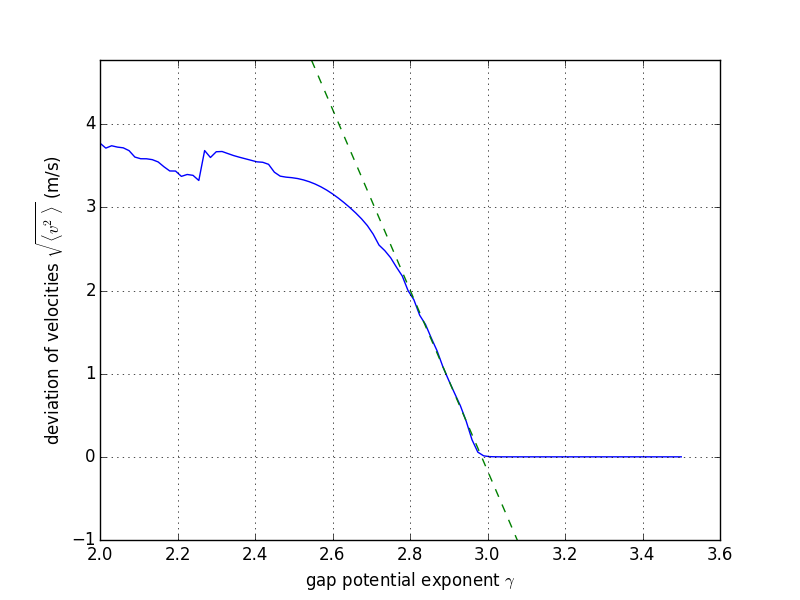
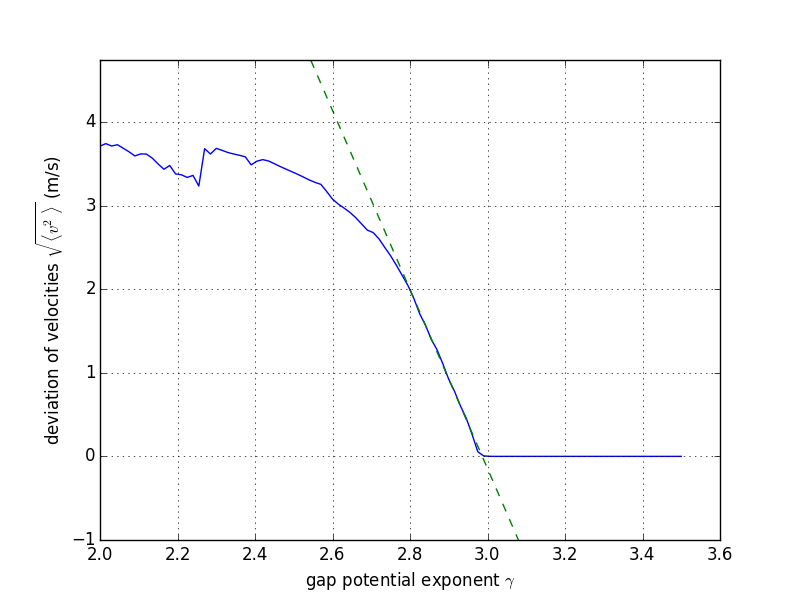
Added tool to visualize velocity field in frequency space

diff --git a/code/measurements/fourier_space.py b/code/measurements/fourier_space.py
@@ -1,0 +1,78 @@
+from subprocess import check_call
+import numpy as np
+from scipy.interpolate import griddata
+from scipy.fftpack import fft2
+from numpy.fft import fftshift, fftfreq
+from matplotlib import pyplot as plt
+
+from paths import SETTINGS_PATH, OUTPUT_PATH, SIM_PATH, SIM_WD
+from common import parse_output
+
+SETTINGS_TEMPLATE = """
+N_CARS    = 50
+ROAD_LENGTH = 1000
+VMAX      = 15
+MIN_DIST  = 2
+TIME_HEAD = 1.5
+AMAX      = 0.6
+DMAX      = 2
+CAR_SIZE  = 5
+DT        = 0.125
+END_TIME  = 4000
+GAMMA = 2.05
+
+
+# Output format
+POSITIONS = 1
+VELOCITIES = 1
+OUT_FREQ = 4
+THROUGHPUT = 1
+"""
+
+#Make the expressions above available in this script
+exec SETTINGS_TEMPLATE
+
+SETTINGS_TEMPLATE += "ID = fourier_space\n"
+
+
+def run_sim():
+    settings_file = open(SETTINGS_PATH + "/fourier_space.txt", "w")
+    settings_file.write(SETTINGS_TEMPLATE)
+    settings_file.close()
+    
+    check_call([SIM_PATH, SETTINGS_PATH+"/fourier_space.txt"], cwd = SIM_WD)
+    
+    # read output
+    n, tt, xx, vv, throughput = parse_output(OUTPUT_PATH + "/cars_fourier_space.dat")
+    
+    # create grid
+    tt_2d = np.tile(tt, (n,1)).T
+    grid_t, grid_x = np.mgrid[500.:END_TIME:1024j, 0.:ROAD_LENGTH:1024j]
+    grid_v = np.nan_to_num(griddata((tt_2d.flatten(), xx.flatten()), vv.flatten(), (grid_t, grid_x), rescale = True))
+    sample_spacing_t = grid_t[2,0]-grid_t[1,0]
+    sample_spacing_x = grid_x[0,2]-grid_x[0,1]
+    
+    grid_fft = np.log(np.abs(fftshift(fft2(grid_v))))
+    freq_t = fftshift(fftfreq(grid_fft.shape[0], sample_spacing_t))
+    freq_x = fftshift(fftfreq(grid_fft.shape[1], sample_spacing_x))
+    print "computation of Fourier transform complete"
+    
+    plt.figure()    
+    plt.subplot(1,2,1)
+    plt.title("velocity field in real space (m/s)")
+    plt.xlabel("time (s)")
+    plt.ylabel("position (m)")
+    plt.pcolormesh(grid_t, grid_x, grid_v)
+    plt.colorbar()
+    
+    plt.subplot(1,2,2)
+    plt.pcolormesh(freq_t, freq_x, grid_fft.T)
+    plt.title("velocity field in frequency space\n(logarithmic magnitude)")
+    plt.xlabel("frequency (1/s)")
+    plt.ylabel("wave number (1/m)")
+    plt.colorbar()
+    plt.show()
+
+
+if __name__ == "__main__":
+    run_sim()

diff --git a/code/measurements/order_parameter.py b/code/measurements/order_parameter.py
@@ -3,6 +3,7 @@ import numpy as np
 from matplotlib import pyplot as plt
 
 from paths import SETTINGS_PATH, OUTPUT_PATH, SIM_PATH, SIM_WD
+from common import parse_output
 
 SETTINGS_TEMPLATE = """
 N_CARS    = 50
@@ -14,7 +15,7 @@ AMAX      = 0.6
 DMAX      = 2
 CAR_SIZE  = 5
 DT        = 0.250
-END_TIME  = 20000
+END_TIME  = 30000
 
 
 # Output format
@@ -40,13 +41,7 @@ def compute_variances():
         check_call([SIM_PATH, SETTINGS_PATH+"/order_parameter.txt"], cwd = SIM_WD)
         
         # read output
-        data = np.loadtxt(OUTPUT_PATH+"/cars_order_parameter{}.dat".format(gamma))
-        n = (len(data[0])-1)//2
-        tt = data[:,0]
-        xx = data[:, 1:n+1]
-        vv = data[:, n+1:-2]
-        throughput = data[:,-1]
-        
+        n, tt, xx, vv, throughput = parse_output(OUTPUT_PATH+"/cars_order_parameter{}.dat".format(gamma))      
         
         variances[i] = np.var(vv[-1])
         
@@ -78,6 +73,6 @@ def make_plot():
     
     
 if __name__ == "__main__":
-    #compute_variances()
+    compute_variances()
     make_plot()
 

diff --git a/code/measurements/common.py b/code/measurements/common.py
@@ -1,0 +1,12 @@
+import numpy as np
+
+def parse_output(path) :
+    # read output
+    data = np.loadtxt(path)
+    n = (len(data[0])-1)//2
+    tt = data[:,0]
+    xx = data[:, 1:n+1]
+    vv = data[:, n+1:-1]
+    throughput = data[:,-1]
+    
+    return n, tt, xx, vv, throughput

diff --git a/code/output/plot.py b/code/output/plot.py
@@ -11,7 +11,7 @@ else :
 n = (len(data[0])-1)//2
 tt = data[:,0]
 xx = data[:, 1:n+1]
-vv = data[:, n+1:-2]
+vv = data[:, n+1:-1]
 throughput = data[:,-1]
 
 plt.title("Positions")
